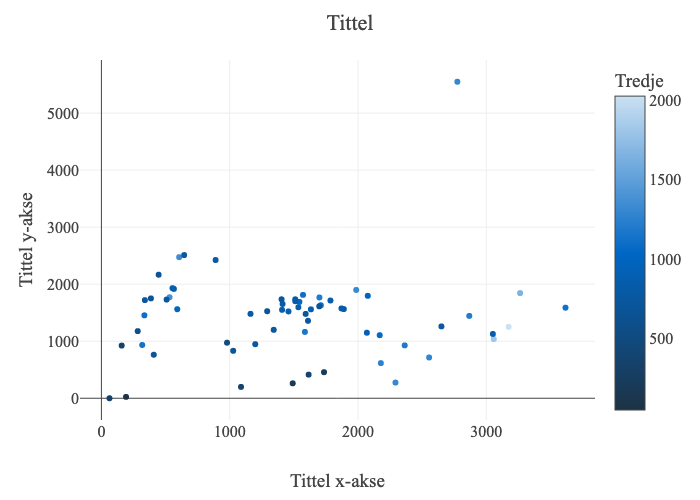
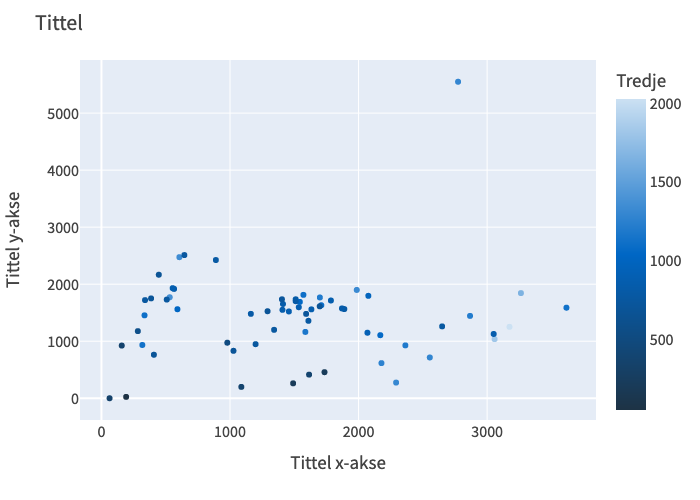
Bruk plotly template som utgangspunkt

diff --git a/nav_template.py b/nav_template.py
@@ -18,15 +18,28 @@ diverging = [
     [0.9, "#06893A"],
     [1, "#0D7034"],
 ]
-layout = go.Layout(
-    {
-        "colorway": categorical,
-        "colorscale": {"diverging": diverging, "sequential": sequential},
-        "font": {"family": "Source Sans Pro", "size": 16},
-        "hovermode": "x unified",
-    }
-)
-template = {"layout": layout}
+new_layout = {
+    "colorway": categorical,
+    "colorscale": {"diverging": diverging, "sequential": sequential},
+    "font": {"family": "Source Sans Pro", "size": 16},
+    "hovermode": "x unified",
+}
 
+
+plotly_template = pio.templates["plotly"]
+
+
+data = {key: plotly_template["data"][key] for key in plotly_template["data"]}
+layout = {key: plotly_template["layout"][key] for key in plotly_template["layout"]}
+
+
+template = {
+    "data": data,
+    "layout": layout,
+}
+
+
+for key, val in new_layout.items():
+    template["layout"][key] = val
 
 pio.templates["nav"] = template
